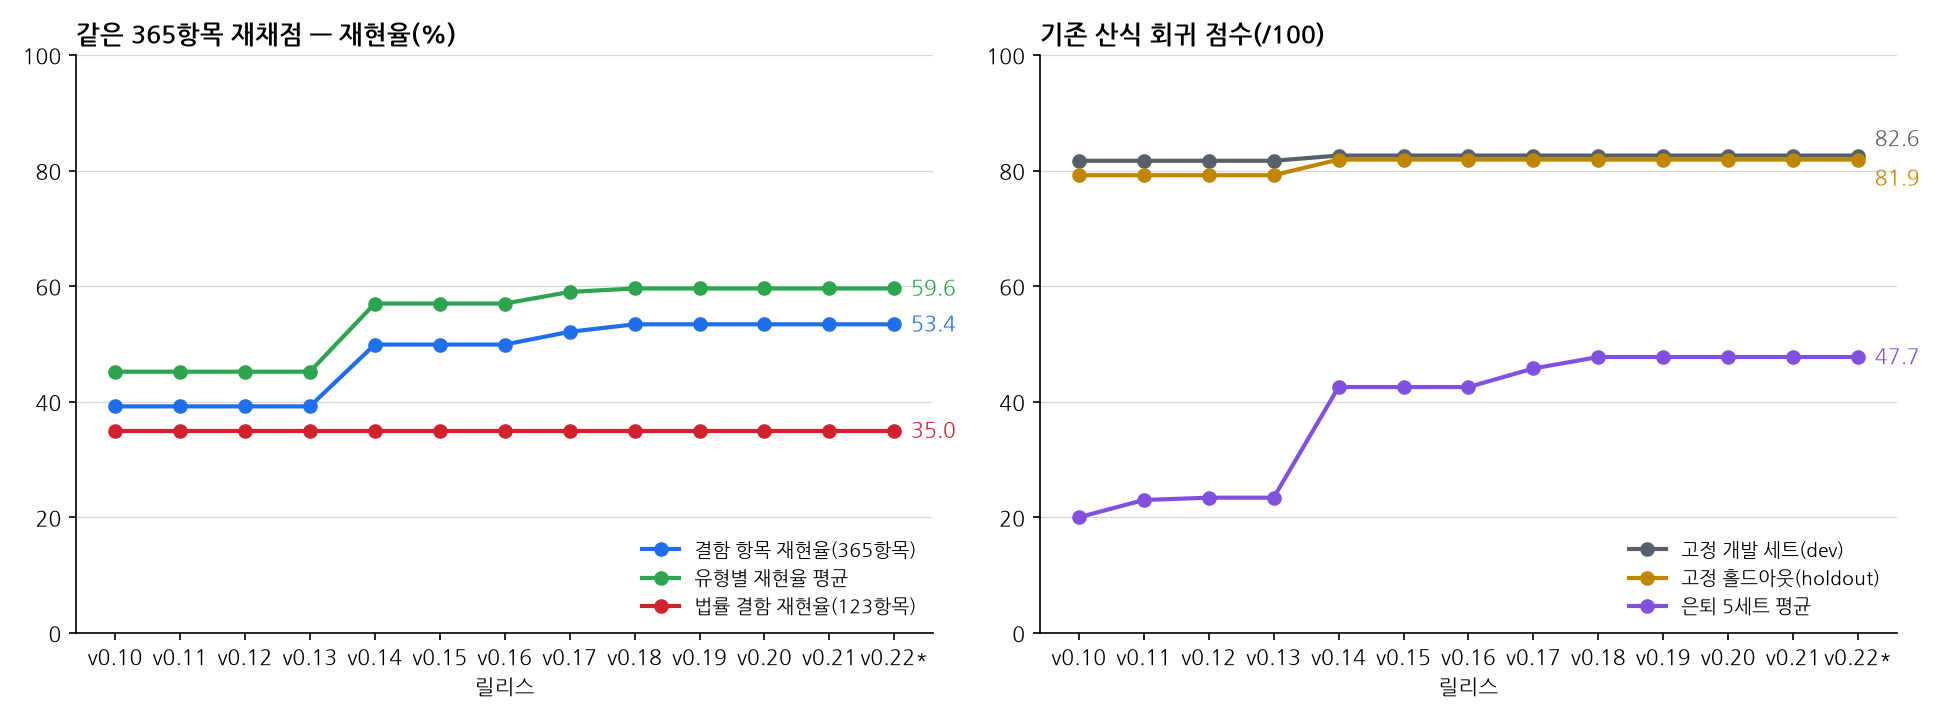
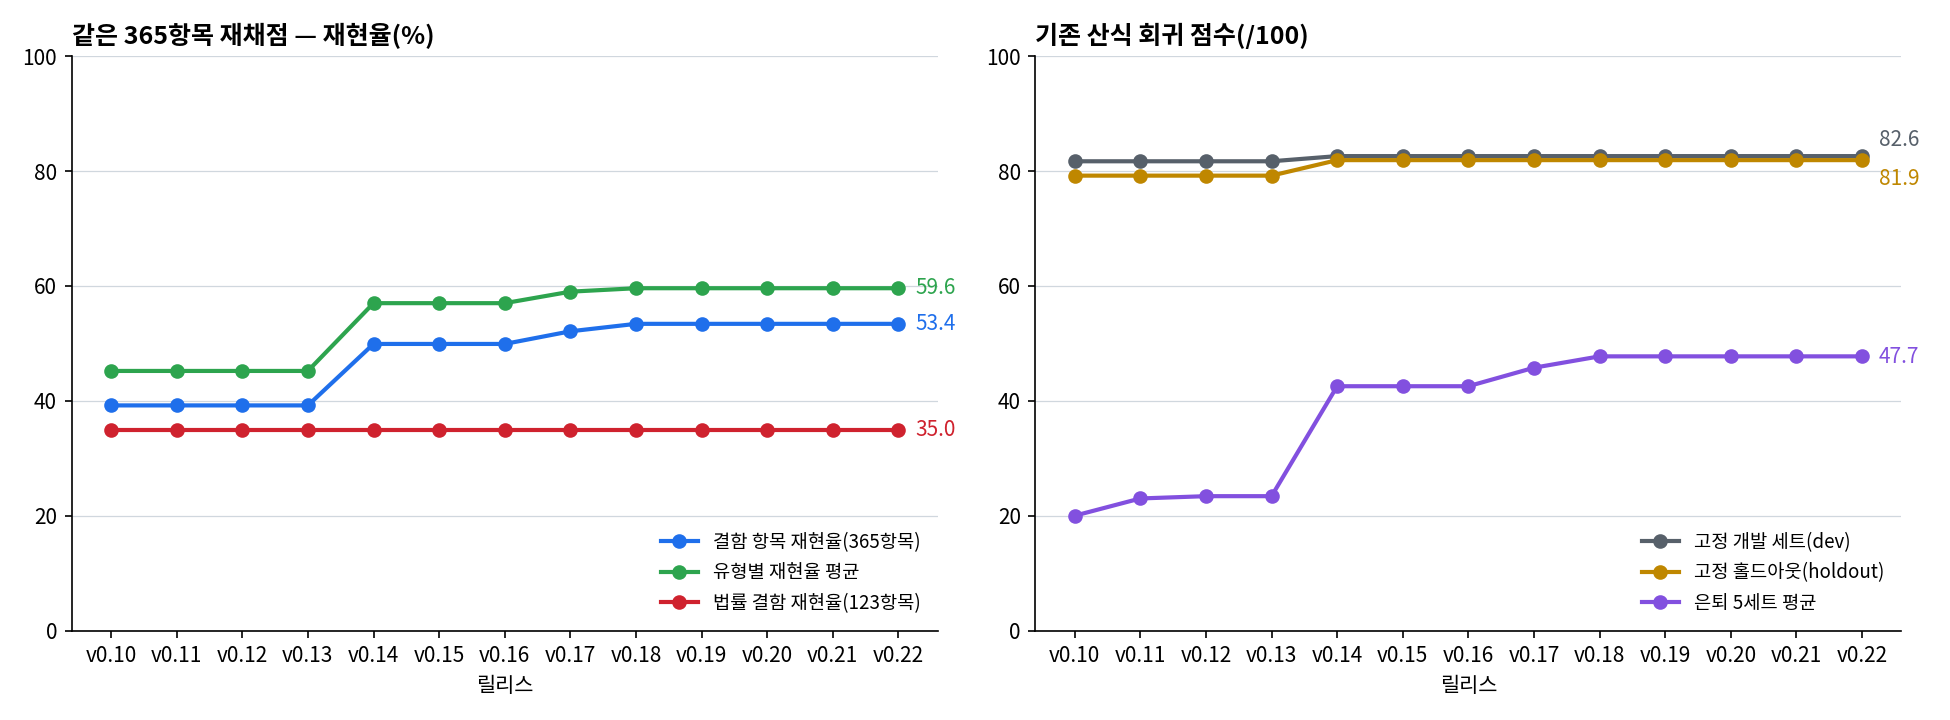
docs(release): record v0.22.0 deployment
Agent: evaluator

diff --git a/docs/RELEASE_HISTORY.md b/docs/RELEASE_HISTORY.md
@@ -4,7 +4,7 @@
 
 | 버전 | 날짜 | 주요 변경 사항 |
 |---|---|---|
-| 0.22.0 | 2026-11-15 | • 평가 측 minor 판정(0.21.0 → 0.22.0, fca75347 기준, added·changed·fixed·security): verify_all 전체 모드 종료 0(수용 1278·회귀 원장 2357·전체 10430·브라우저 200), main 0.21.0(83d862e7)과 동일 오프라인 조건 비교에서 고정 개발 82.6·홀드아웃 81.9(v2 42/56·41/54)·확인 오탐 0·A등급 0 유지, 은퇴 5세트(53.3/48.6/56.9/45.8/34.1) 및 7세트 365항목 195/365(53.4%, 법률 43/123, RER 0) 유지. 봉인 동일 조건 비교 수용(main 83d862e7 대 후보 fca75347): 양쪽 구 산식 23.0·v2 13/62·36유형 후퇴 없음·개인정보 종류 13/26·확인 오탐/A등급 오탐/엔진 오류 0 유지. 보안 탐지 0/10 유지이며 실무 법률 정확도·보안성 입증은 아님<br>• Added: Time Table 시간순 사건·증거표, 출처 연결, Markdown 복사(#305)<br>• Changed: Gemini 4 Hydrogen(gemini-4-hydrogen) 기본 모델·단가·요청 설정(#304), AI 관여·전체/일부 범위·모델 범위 이견·표본 범위·근거 강도 정보 보존(#308)<br>• Fixed: Drive PDF 읽기·빈 비밀번호·OCR·재개 진단, HWPX 셀 문단 경계, 비율 계산 근거 연결, 공식 Source 개인정보 차단 진단(#307), 일부 미확인 상태 줄의 실제 미확인 건수(N건) 표시(#310), 모바일 환경 프로젝트 목록 새로고침·동기화(#312)<br>• 운영 재현성: 해시 잠금, 운영/시험 의존성 분리, runtime 기록, pip-audit, score-gate의 시험 잠금·Chromium 설치(#303), README 제목(ACAS AegisLAW)·6개 탭·모델·버전 자동 동기화(#306)<br>• 평가 도구 보완: AI 반복 조건 증거 비교(해시 대조), 누락·복수 문서·중복 실행 거부(#309·#313, 모델 정확도 개선 아님). 배포 후 재측정 대상: 실제 Drive 원본/암호화/HWPX, Gemini 새 모델 호출·비용·품질, AI 범위 정확도/반복, 공식 Source cascade 해소, 실기기 화면 |
+| 0.22.0 | 2026-11-16 | • 평가 측 minor 판정(0.21.0 → 0.22.0, fca75347 기준, added·changed·fixed·security): verify_all 전체 모드 종료 0(수용 1278·회귀 원장 2357·전체 10430·브라우저 200), main 0.21.0(83d862e7)과 동일 오프라인 조건 비교에서 고정 개발 82.6·홀드아웃 81.9(v2 42/56·41/54)·확인 오탐 0·A등급 0 유지, 은퇴 5세트(53.3/48.6/56.9/45.8/34.1) 및 7세트 365항목 195/365(53.4%, 법률 43/123, RER 0) 유지. 봉인 동일 조건 비교 수용(main 83d862e7 대 후보 fca75347): 양쪽 구 산식 23.0·v2 13/62·36유형 후퇴 없음·개인정보 종류 13/26·확인 오탐/A등급 오탐/엔진 오류 0 유지. 보안 탐지 0/10 유지이며 실무 법률 정확도·보안성 입증은 아님<br>• Added: Time Table 시간순 사건·증거표, 출처 연결, Markdown 복사(#305)<br>• Changed: Gemini 4 Hydrogen(gemini-4-hydrogen) 기본 모델·단가·요청 설정(#304), AI 관여·전체/일부 범위·모델 범위 이견·표본 범위·근거 강도 정보 보존(#308)<br>• Fixed: Drive PDF 읽기·빈 비밀번호·OCR·재개 진단, HWPX 셀 문단 경계, 비율 계산 근거 연결, 공식 Source 개인정보 차단 진단(#307), 일부 미확인 상태 줄의 실제 미확인 건수(N건) 표시(#310), 모바일 환경 프로젝트 목록 새로고침·동기화(#312)<br>• 운영 재현성: 해시 잠금, 운영/시험 의존성 분리, runtime 기록, pip-audit, score-gate의 시험 잠금·Chromium 설치(#303), README 제목(ACAS AegisLAW)·6개 탭·모델·버전 자동 동기화(#306)<br>• 평가 도구 보완: AI 반복 조건 증거 비교(해시 대조), 누락·복수 문서·중복 실행 거부(#309·#313, 모델 정확도 개선 아님). 배포 후 재측정 대상: 실제 Drive 원본/암호화/HWPX, Gemini 새 모델 호출·비용·품질, AI 범위 정확도/반복, 공식 Source cascade 해소, 실기기 화면 |
 | 0.21.0 | 2026-11-15 | • 평가 측 minor 판정(0.20.0 → 0.21.0, 86434b6a 기준, changed·fixed·security): verify_all 전체 실패 0(수용 1278·회귀 장부 2357·전체 10328·브라우저 197 통과), 고정 개발 82.6·홀드아웃 81.9·확인 오탐 0 유지, 은퇴 5세트 후퇴 없음. 봉인 시험은 사용자 결정으로 미시행·온라인 평가로 갈음(실측은 배포 뒤)<br>• 화면: 템플릿 A 리디자인, 모바일·태블릿 반응형, 개요 실제 값 KPI와 사람 검토 띠, 넓은 화면 사이드바 접기, Pretendard 자체 호스팅, AegisLAW 브랜드와 탭 아이콘(TK-171·172)<br>• 검증 표시·보안: 모델 지적과 결정론 판정의 중복 해소(TK-173), Drive 대조 미완료 사유 정확화(TK-174), 경로 주입·진단 노출 등 CodeQL 경고 대응(TK-175), CI Node 24 전환(TK-176)<br>• 실행 안정성: 법리 규칙 단계 NameError 해소(TK-177), Drive 판례표 링크·문헌 속성 오격리와 진단 보완(TK-178), 모델 JSON 추출·오류 모양 기록·판례 판단 출력 한도 4096(TK-179)<br>• 검증 역할: 입력 법률문서는 AI 생성·인용·주장·지시문 검증 대상, 공식 DB·검증 등록 RAG는 판단 기준 자료로 구분. 기준 자료의 지시문 분류/격리·쪽/행 제외 해제와 캐시 재추출, 입력 문서 인젝션 탐지·개인정보·출력 경계 유지(TK-180)<br>• 평가 체계: 엔진 오류 게이트, 온라인 실행 건강 상태·RAG 대조군·AI 반복 집계·기능별 온라인 평가 갱신. 포함 PR #290~#294·#297~#300. 미측정: 운영 모델·공식 DB·Drive 효과, TK-180 온라인 8보고서, 실기기 화면, main CodeQL 경고 해소 — 배포 뒤 온라인 평가 계획에 따라 확인 |
 | 0.20.0 | 2026-11-14 | • 평가 측 minor 판정(0.19.0 → 0.20.0, 2cc7ac2 기준, 분류 added·changed·fixed): verify_all 전체 모드 실패 0(수용 1275·회귀 장부 2357·전체 10143·브라우저 197 통과), 고정 개발 82.6·홀드아웃 81.9 유지, 오탐 0건·A등급 0건, 회귀 0. 은퇴 세트 0.19.0과 같음(오탐 0). 봉인 시험은 사용자 결정으로 생략하고 배포 뒤 0.19.0 대 0.20.0 온라인 비교로 갈음<br>• 판정 근거 표시: 판정마다 공식 원문 근거 구간 기록(TK-159), 주장 3분류(근거 일치·근거와 모순·근거 부족)와 근거 의무(TK-160), 검토 표의 원문 대조 보기(다른 곳만 칸에 요약, 전문은 접힘·원문 링크)와 3분류 배지, 보고서 차이 요약 줄(TK-163)<br>• 법률 검증: 공식 원문으로 확인된 대법원 판례가 뒤의 전원합의체 판결에서 변경 대상으로 적혔으면 경고(파이프라인 별도 단계, TK-162), 같은 시행일 복수 개정판에서 인용 조문이 같으면 법령 판 확정(TK-158), 지각 범위 문장 규칙 일반화(TK-169)<br>• 검토 운영·화면: 담당자 검토 결정의 경고 유형별 수용률·오탐률 집계(서버 TK-157a, '연결 상태' 창 표 TK-157b), 화면·보고서 영문 코드 한글화와 표시 정리(TK-155), AI 작성 판별 두 모델 고정·엇갈림 시 추가 호출(TK-156), 엠블럼 교체·초기 레터링과 로그인 제목 제거·문서 제목 'AegisLAW'(#282). 평가 v2(일대일 재현율·측정 실패 차단)와 README 성능 추이 그래프, 외부 벤치마크(KBL) 미적용 정리. 포함 PR #270~#282. 알려진 미해결: 온라인 효과(공식 DB 역조회 회수율·원문 정렬 품질·모델) 미측정 — 배포 뒤 온라인 비교로 확인 |
 | 0.19.0 | 2026-11-12 | • 평가 측 minor 판정(0.18.0 → 0.19.0, 9406d9c 기준, 분류 changed·fixed): verify_all 전체 모드 종료 0(수용 1239·회귀 장부 2357·전체 9997·브라우저 197 통과), 고정 개발 82.6·홀드아웃 81.9 유지, 오탐 0건·A등급 0건, 회귀 0. 은퇴 세트 0.18.0과 같음(오탐 0). 봉인 시험은 사용자 결정으로 생략하고 배포 뒤 0.18.0 대 0.19.0 온라인 비교로 갈음<br>• 판례 존재 판정: 서면이 '전원합의체'라고 밝힌 대법원 판결을 선고 180일 뒤에도 공식 DB에서 찾지 못하면 '부존재 의심'(HIGH)으로 표시(부존재 확정은 아님, TK-154). 판결 전문의 번호 붙은 의견 머리말·쟁점 한정 판결요지 표지를 인식해 반대·별개의견을 판시로 인용한 경우를 결정적으로 검출(TK-153)<br>• 법령 약칭: 두 음절 비공식 약칭의 공식 법령 추정 순위 개선(약칭 가산 제거·이어 맞는 정렬 우선), 추정 후보에 인용 조문이 없거나 첫 글자 목록에 후보가 없으면 '존재하지 않는 법령'(CRITICAL) 대신 확정 못 함(MEDIUM)(TK-152). 포함 PR #264·#265·#266. 알려진 미해결: 온라인 효과(공식 DB·모델) 미측정 — 배포 뒤 온라인 비교로 확인 |

diff --git a/docs/scorecards/TICKET_METRICS.md b/docs/scorecards/TICKET_METRICS.md
@@ -3,8 +3,8 @@
 `python scripts/ticket_metrics.py`가 만든다. 손으로 고치지 않는다. 상태는 `ticket_registry.json`(평가 측 갱신)을 따른다.
 티켓 번호는 발견한 문제 수다. 해소 여부·회귀(구현 수정이 새로 만든 결함)·재발은 아래처럼 따로 센다.
 
-- 전체 123건 · 회귀 28건 · 미해결(open·accepted·merged·known_open) 24건
-- 상태별: open 1 · accepted 0 · merged 18 · known_open 5 · deployed 99 · closed 0
+- 전체 123건 · 회귀 28건 · 미해결(open·accepted·merged·known_open) 19건
+- 상태별: open 1 · accepted 0 · merged 13 · known_open 5 · deployed 104 · closed 0
 - 해소일(deployed_on·closed_on)은 2026-10-10 이후 기록분만 있다. 그 전 해소 건은 날짜 미상이라 주간 해소 수에 들어가지 않는다.
 
 ## 주별
@@ -17,6 +17,7 @@
 | 2026-W44 | 1 | 1 | 100% | 0 | 5 | 0 |
 | 2026-W45 | 13 | 0 | 0% | 0 | 4 | 0 |
 | 2026-W46 | 7 | 0 | 0% | 0 | 2 | 0 |
+| 2026-W47 | 0 | 0 | - | 0 | 5 | 0 |
 
 ## 일별 발견
 | 날짜 | 발견 | 그중 회귀 |
@@ -65,11 +66,6 @@
 | TK-143 | merged | new | - | 2026-11-03 0.17.0 온라인 탐침(docs/scorecards/online_probe_0170_20261103.md)에서 발견. 11-03 사용자 결정 '전부 이번 릴리스에 포함'. P1 두 음절 비공식 약칭(XX법) 추정 불가 — infer_law_by_abbreviation 검색어 3자 미만 생략·부분 문자열 검색 한계로 후보 없음 → 실재 법률 STATUTE_NONEXISTENT CRITICAL(탐침 5/5). 약칭+시행령·모호한 약칭도 CRITICAL. TK-130b(평가 측 수정본)의 탐침 범위 결함. · 11-03 평가 측 수정본 사전 검증(합본 2판 verify_all 종료 0·고정·은퇴 변화 0), 지시문 Antigravity 전달 완료(11-03, 사용자). · 11-03 #218 `235db42` 수용(diff=수정본, CI 성공, 합본 후보 verify_all 종료 0) — Steve 병합 대기. · 11-03 #218 Steve 병합 `831b325`(사용자 지시). |
 | TK-147 | merged | new | 2026-11-03 | 2026-11-03 #215 CI 1회차에서 발견. tests/test_tk56_structured_name_boundary.py 절대 시간 상한(0.1초) 단발 측정 시험이 흔들림 — 기준 코드 7b41c7d에서도 로컬 재현(0.113초). TK-142와 같은 방식 안정화 후보. 범위 결정 대기. docs/handoff/TK-147_tk56_timing_test_stability.md · 11-03 사용자 'TK147 포함'(기존 시험 수정 승인). 변경안 patches/TK-147_tk56_timing_stability_on_cf57cb7.diff 사전 검증(부하 12회 기존 실패 3 → 0, 지연 주입 탐지 유지). · 11-03 3차 지시 전달 완료(사용자). · 11-03 #222 `0890cb3` 수용 — Steve 병합 대기. · 11-03 #222 Steve 병합 `200db94`(사용자 지시). |
 | TK-148 | merged | new | 2026-11-03 | 2026-11-03 평가 측 공식 API 실제 응답 확인에서 발견(TK-143 후속). law_name_inference._GANA의 ㅇ 값 'a'가 틀려(정답 'ah') 필터 없는 전체 목록이 와 ㅇ 두 글자 약칭은 늘 INCOMPLETE. 수정본 patches/TK-148_gana_ah_on_cf57cb7.diff. 기존 시험 test_gana_code_follows_initial_consonant 단언 1건 변경 — 사용자 승인 대기. docs/handoff/TK-148_gana_initial_ah.md · 11-03 사용자 '148 변경승인'(범위 포함·기존 시험 단언 1건 변경 승인) → 지시. · 11-03 #223 `f1e3969` 수용(시험 주석 1줄 승인 전 판, 비차단) — Steve 병합 대기. · 11-03 #223 Steve 병합 `f6aba23`(사용자 지시). |
-| TK-182 | merged | existing | 2026-11-15 | 2026-11-15 사용자 지시로0.22.0 해소 대상. Drive19자료163쪽 미추출/암호화 과잉거절·읽기완전성 진단. 운영/사본 근거 online_0210_automated_20261115.json. TK182빈비밀번호 부분 사본54+3시험, TK183사본57시험 통과. 전체 제품 적용/운영 재측정 전이며 나머지 설계 미검증 범위는 개별 티켓 참조. 2026-11-15 릴리스 후보 fca75347: #307 제품 수용/Steve 병합 반영. 운영 재측정 전이며 배포/문제 해소 완료를 뜻하지 않음. |
-| TK-183 | merged | existing | 2026-11-15 | 2026-11-15 사용자 지시로0.22.0 해소 대상. HWPX셀 문단경계손실. 운영/사본 근거 online_0210_automated_20261115.json. TK182빈비밀번호 부분 사본54+3시험, TK183사본57시험 통과. 전체 제품 적용/운영 재측정 전이며 나머지 설계 미검증 범위는 개별 티켓 참조. 2026-11-15 릴리스 후보 fca75347: #307 제품 수용/Steve 병합 반영. 운영 재측정 전이며 배포/문제 해소 완료를 뜻하지 않음. |
-| TK-184 | merged | existing | 2026-11-15 | 2026-11-15 사용자 지시로0.22.0 해소 대상. 비율 계산 모델 지적 연결 누락. 운영/사본 근거 online_0210_automated_20261115.json. TK182빈비밀번호 부분 사본54+3시험, TK183사본57시험 통과. 전체 제품 적용/운영 재측정 전이며 나머지 설계 미검증 범위는 개별 티켓 참조. 2026-11-15 릴리스 후보 fca75347: #307 제품 수용/Steve 병합 반영. 운영 재측정 전이며 배포/문제 해소 완료를 뜻하지 않음. |
-| TK-185 | merged | new | 2026-11-15 | 2026-11-15 사용자 지시로0.22.0 해소 대상. AI 반복 조건동일성 오표시·범위판정 품질 평가. 운영/사본 근거 online_0210_automated_20261115.json. TK182빈비밀번호 부분 사본54+3시험, TK183사본57시험 통과. 전체 제품 적용/운영 재측정 전이며 나머지 설계 미검증 범위는 개별 티켓 참조. 2026-11-15 릴리스 후보 fca75347: #308 및 평가 도구 보완 제품 수용/Steve 병합 반영. 운영 재측정 전이며 배포/문제 해소 완료를 뜻하지 않음. 이 평가 PR에 full SHA/입력/정책/모델/Drive/날짜/중복 실행 대조 도구 및 43건 시험을 포함. 운영 AI 범위 정확도는 보류. |
-| TK-186 | merged | existing | 2026-11-15 | 2026-11-15 사용자0.22해소범위: 공식Source cascade INPUT_PRIVACY_BLOCKED 정밀진단. 이전Source점검3공급자NOT_SENT·원인미확정, 이번다른경로80호출성공으로종결하지않음. 개인정보/입력인젝션 보호완화금지. TK-186_official_cascade_privacy_diagnostics.md. 2026-11-15 릴리스 후보 fca75347: #307 제품 수용/Steve 병합 반영. 운영 재측정 전이며 배포/문제 해소 완료를 뜻하지 않음. 사유 코드·진단 보완 수용이며 기존 cascade 3공급자 NOT_SENT의 실제 해소는 NOT_RUN. |
 
 ## 읽는 법
 - 회귀 비율이 줄면 수정 과정의 품질 관리가 나아지는 것이다. 성능(처음 보는 문서의 탐지율)은 고정 비공개 벤치마크로 따로 본다(`FIXED_BENCHMARK.md`).

diff --git a/README.md b/README.md
@@ -16,7 +16,7 @@
 - **법률 판단을 대신하지 않습니다.** 진정성립·위조·고의와 주장의 당부는 사용자가 최종 판단합니다.
 - **AI 모델의 의견은 참고입니다.** 판정은 공식 출처 조회와 결정론적 구조 검사가 먼저 정합니다.
 
-**현재 운영 버전:** 0.22.0 (2026-11-15 배포). 버전별 성능 추이는 [아래 그래프](#버전별-성능-발전-추이), 버전별 변경은 [변경 이력](docs/RELEASE_HISTORY.md), 개발 중인 변경과 평가 결과는 [일자별 추이표](docs/scorecards/DAILY_TREND.md)를 보세요.
+**현재 운영 버전:** 0.22.0 (2026-11-16 배포). 버전별 성능 추이는 [아래 그래프](#버전별-성능-발전-추이), 버전별 변경은 [변경 이력](docs/RELEASE_HISTORY.md), 개발 중인 변경과 평가 결과는 [일자별 추이표](docs/scorecards/DAILY_TREND.md)를 보세요.
 
 ---
 
@@ -259,9 +259,7 @@ docker compose up --build
 
 ![버전별 성능 발전 추이](docs/assets/performance_trend.png)
 
-> **벤치마크 기준** — ACAS AegisLAW 내부 회귀 벤치마크(공개 벤치마크 아님). 고정 7세트(개발 dev·홀드아웃 holdout·은퇴 봉인 5세트) 51문서의 결함·확인불가 **365항목**(그중 법률 결함 123항목)을 v0.10~v0.22-candidate 각 릴리스 코드에 같은 조건(오프라인, 공식 DB·LLM 호출 없음, 한국어 OCR 포함)으로 공급해 2026-11-13~2026-11-15에 다시 측정했다.<br>
-> **표기:** v0.22*는 평가 완료된 통합 후보이며 아직 배포된 릴리스가 아니다.
-<br>
+> **벤치마크 기준** — ACAS AegisLAW 내부 회귀 벤치마크(공개 벤치마크 아님). 고정 7세트(개발 dev·홀드아웃 holdout·은퇴 봉인 5세트) 51문서의 결함·확인불가 **365항목**(그중 법률 결함 123항목)을 v0.10~v0.22 각 릴리스 코드에 같은 조건(오프라인, 공식 DB·LLM 호출 없음, 한국어 OCR 포함)으로 공급해 2026-11-13~2026-11-15에 다시 측정했다.<br>
 > **왼쪽** 같은 항목을 같은 규칙으로 일대일 재채점한 재현율(%) · **오른쪽** 기존 산식 회귀 점수(/100). 두 패널은 분모·산식이 달라 서로 합산·비교하지 않는다.<br>
 > 실무 법률 정확도나 KBL 등 공개 벤치마크 점수가 아니다. 공식 DB를 조회하지 않으므로 법률 결함 재현율은 원문 대조 성능을 대표하지 않는다. 측정 방법: [평가 기준 감사](docs/scorecards/benchmark_audit_2026-11-13.md) · [평가 v2 규약](docs/scorecards/EVALUATION_V2.md) · 자료: [version_performance.csv](docs/scorecards/version_performance.csv)
 

diff --git a/docs/scorecards/HISTORY.md b/docs/scorecards/HISTORY.md
@@ -2039,3 +2039,8 @@ Claude 입력122627/출력30466/총153093, 이전OFF 대비+10.76%/+8.52%/+10.31
 ## 2026-11-15 0.22.0 봉인 최종 비교
 
[1 lines of base64/hex data omitted]
+
+
+## 2026-11-16 0.22.0 운영 배포 확인
+
+사용자 제공 /api/health 응답에서 status=ok, version=0.22.0, commit `5b9957932259526e1f7edca9ba7d92767771618e`(main 병합 SHA와 일치), database.status=ok 확인. PR #316 head `e84141d7`의 점수 게이트·은퇴 비교·SQLite/PostgreSQL 테스트·Docker OCR·pip-audit·CodeQL 성공. 태그 `v.0.22.0`은 같은 병합 SHA를 가리킨다. 성능표의 후보 행을 운영 릴리스 행으로 승격하고 배포 JSON을 보존했다. 온라인 기능 평가는 별도 세션에서 진행하며 완료·통과로 계산하지 않는다. 근거 `release_022_deployment_20261116.json`.

diff --git a/docs/scorecards/DAILY_TREND.md b/docs/scorecards/DAILY_TREND.md
@@ -198,3 +198,8 @@
 ### 2026-11-15 추가 기록 — 0.22.0 봉인 쌍 판정
 
 사용자 제공 main `83d862e7`/후보 `fca75347` 봉인 집계 JSON 동일 조건을 검증·수용: 구 23.0/23.0, v2 13/62, 36유형 후퇴 0, 개인정보 종류 13/26, 오탐/A/오류 0, 보안 탐지 양쪽 0/10. Python 3.11.18·OCR 5.3.4 kor 포함·동일 데이터 지문. 온라인 정확도/보안성 근거 아님. 0.22 후보 성능행은 `version_performance.csv`; final release CI/Steve/main/온라인 평가는 잔여.
+
+
+## 2026-11-16 0.22.0 배포 확인
+
+main 병합 SHA `5b9957932259526e1f7edca9ba7d92767771618e`의 사용자 제공 health: status=ok·version=0.22.0·database.status=ok 일치. 태그 `v.0.22.0` 확인, 오프라인 성능표의 후보 행을 배포 버전 행으로 갱신. 온라인 평가는 별도 세션 대기이며 측정·통과 미기록. `release_022_deployment_20261116.json` 참조.
